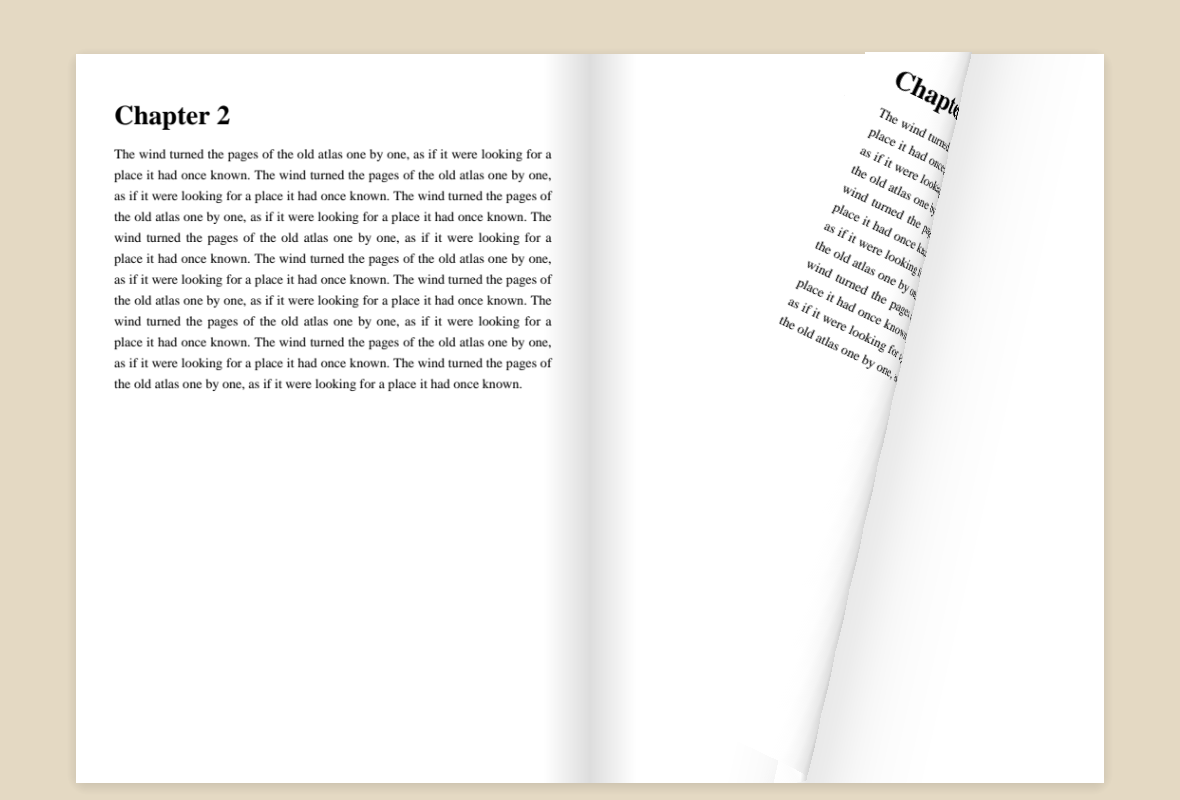
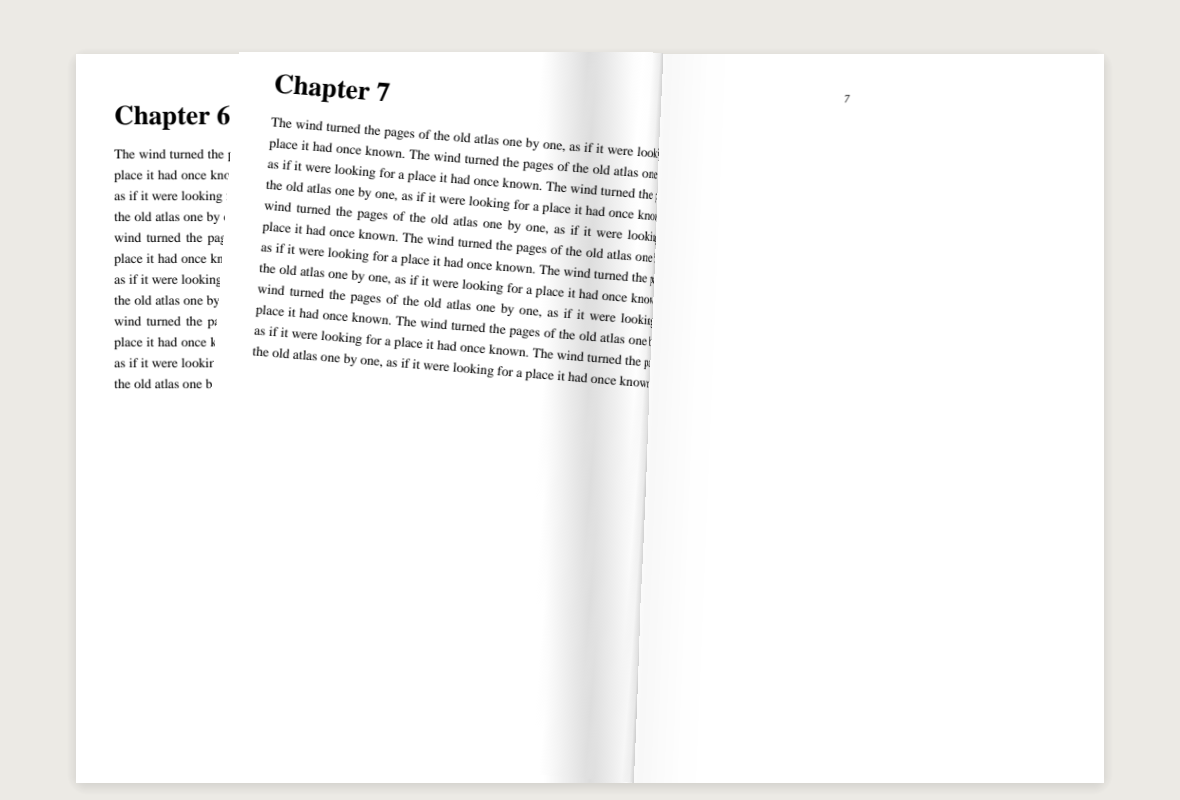
Update shadows visual

diff --git a/app/src/curl_draw.rs b/app/src/curl_draw.rs
@@ -45,6 +45,26 @@ pub struct CurlPaint {
     pub back: Option<TextureId>,
     pub paper: Color32,
     pub dark: bool,
+    /// Spine shading baked into the parts of the sheet that lie flat against the
+    /// spine: (width in px, strength 0..1). `None` in single-page mode.
+    pub gutter: Option<(f32, f32)>,
+}
+
+/// Darkening factor for a sheet vertex near the spine. The shade fades out
+/// smoothly as the paper lifts off the page (by wrap angle, which is continuous
+/// across the fold), so only paper lying flat by the spine gets it, without
+/// steps. Face-up and face-down (crossed over) parts are both covered.
+fn gutter_factor(v: &gl_curl::CurlVertex, g: Option<(f32, f32)>) -> f32 {
+    use std::f32::consts::FRAC_PI_2;
+    let Some((w, s)) = g else { return 1.0 };
+    let flat = if v.theta <= FRAC_PI_2 {
+        1.0 - v.theta / FRAC_PI_2
+    } else {
+        (v.theta - FRAC_PI_2) / FRAC_PI_2
+    };
+    let flat = flat.clamp(0.0, 1.0).powi(2);
+    let x = v.pos.x.abs();
+    if x >= w { 1.0 } else { 1.0 - s * (1.0 - x / w) * flat }
 }
 
 fn gray(v: f32, a: u8) -> Color32 {
@@ -148,31 +168,15 @@ pub fn draw_sheet(painter: &Painter, frame: &SheetFrame, cm: &CurlMesh, paint: &
             }
         },
         |v| {
+            let shade = v.shade() * gutter_factor(v, paint.gutter);
             if paint.front.is_some() {
-                gray(v.shade(), 255)
+                gray(shade, 255)
             } else {
-                tinted(paint.paper, v.shade())
+                tinted(paint.paper, shade)
             }
         },
     );
     painter.add(Shape::mesh(front));
-
-    // Shading bands belong to this sheet only: never let them spill onto the facing page.
-    let sheet_painter = painter.with_clip_rect(painter.clip_rect().intersect(frame.rect));
-    // occlusion just behind the fold, on the still-flat front
-    if let Some(f) = cm.fold {
-        let span = (frame.w() + frame.h()) * 2.0;
-        let a = if paint.dark { 0.22 } else { 0.08 } * (1.0 - cm.progress);
-        sheet_painter.add(shadow_band(
-            frame,
-            f.point,
-            f.normal * -1.0,
-            (f.radius * 3.0).max(6.0),
-            span,
-            a,
-            0.0,
-        ));
-    }
 
     if cm.back.is_empty() {
         return;
@@ -185,12 +189,19 @@ pub fn draw_sheet(painter: &Painter, frame: &SheetFrame, cm: &CurlMesh, paint: &
         &cm.back,
         TextureId::default(),
         |_| (egui::epaint::WHITE_UV.x, egui::epaint::WHITE_UV.y),
-        |v| tinted(paint.paper, v.shade()),
+        |v| tinted(paint.paper, v.shade() * gutter_factor(v, paint.gutter)),
     );
     painter.add(Shape::mesh(base));
     match paint.back {
         Some(tex) => {
-            let m = mesh_from(frame, cm, &cm.back, tex, |uv| (back_u(uv.x), uv.y), |v| gray(v.shade(), 255));
+            let m = mesh_from(
+                frame,
+                cm,
+                &cm.back,
+                tex,
+                |uv| (back_u(uv.x), uv.y),
+                |v| gray(v.shade() * gutter_factor(v, paint.gutter), 255),
+            );
             painter.add(Shape::mesh(m));
         }
         None => {
@@ -215,11 +226,16 @@ pub fn page_shadow(painter: &Painter, rect: Rect, dark: bool) {
     painter.add(s.as_shape(rect, egui::CornerRadius::same(2)));
 }
 
+/// Width (px) and strength (0..1) of the spine shading for a spread.
+pub fn gutter_params(spread: Rect, dark: bool) -> (f32, f32) {
+    (spread.width() * 0.045, if dark { 70.0 / 255.0 } else { 34.0 / 255.0 })
+}
+
 /// Gutter shading on both sides of the spine (two-page spread).
 pub fn gutter(painter: &Painter, spread: Rect, dark: bool) {
     let x = spread.center().x;
-    let w = spread.width() * 0.045;
-    let a = if dark { 70 } else { 34 };
+    let (w, s) = gutter_params(spread, dark);
+    let a = (s * 255.0) as u8;
     for (from, to) in [(x, x - w), (x, x + w)] {
         let mut m = Mesh::default();
         let c0 = Color32::from_black_alpha(a);

diff --git a/app/src/reader.rs b/app/src/reader.rs
@@ -795,7 +795,7 @@ impl Reader {
                     max_radius: fw * 0.09,
                     edge: t.edge,
                 };
-                let cm = c.mesh(36, 48);
+                let cm = c.mesh(56, 48);
                 let (fv, tv) = (t.from_view, t.to_view);
                 let (f_first, f_second) = self.view_rects(area, spread, rtl, fv, blank);
                 if spread {
@@ -803,16 +803,16 @@ impl Reader {
                     curl_draw::page_shadow(&painter, spread_rect, dark);
                     self.draw_slot(&painter, self.slot(fv, blank), f_first, env.pal);
                     self.draw_slot(&painter, self.slot(tv + 1, blank), f_second.unwrap(), env.pal);
+                    curl_draw::gutter(&painter, spread_rect, dark);
                     curl_draw::draw_under_shadow(&painter.with_clip_rect(f_second.unwrap()), &frame, &cm, dark);
                     let paint = CurlPaint {
                         front: self.slot_tex(self.slot(fv + 1, blank)),
                         back: self.slot_tex(self.slot(tv, blank)),
                         paper: self.slot_paper(self.slot(fv + 1, blank), env.pal),
                         dark,
+                        gutter: Some(curl_draw::gutter_params(spread_rect, dark)),
                     };
                     curl_draw::draw_sheet(&painter.with_clip_rect(spread_rect.expand(2.0)), &frame, &cm, &paint);
-                    // the spine shadow sits on top: the sheet bends into the gutter too
-                    curl_draw::gutter(&painter, spread_rect, dark);
                 } else {
                     curl_draw::page_shadow(&painter, f_first, dark);
                     self.draw_slot(&painter, self.slot(tv, blank), f_first, env.pal);
@@ -823,6 +823,7 @@ impl Reader {
                         back: None,
                         paper: self.slot_paper(self.slot(fv, blank), env.pal),
                         dark,
+                        gutter: None,
                     };
                     curl_draw::draw_sheet(&clip, &frame, &cm, &paint);
                 }
